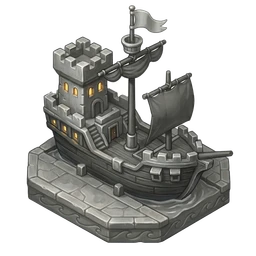
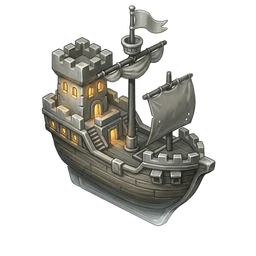
feat: new ship image (ship-new2), always upright — no rotation
Ship pieces always render in their natural orientation regardless
of edge direction. New ship art with transparent background.

diff --git a/packages/app/components/board/PlayerPieces.tsx b/packages/app/components/board/PlayerPieces.tsx
@@ -186,7 +186,6 @@ export function ShipPiece({ x1, y1, x2, y2, color, size = 16 }: ShipPieceProps) 
   const { r, g, b } = hexToRgb(color);
   const mx = (x1 + x2) / 2;
   const my = (y1 + y2) / 2;
-  const angle = (Math.atan2(y2 - y1, x2 - x1) * 180) / Math.PI;
   const filterId = `tint-ship-${Math.round(mx)}-${Math.round(my)}`;
 
   return (
@@ -202,18 +201,16 @@ export function ShipPiece({ x1, y1, x2, y2, color, size = 16 }: ShipPieceProps) 
         </filter>
       </defs>
       {/* Player color base */}
-      <ellipse cx={mx} cy={my} rx={size * 0.55} ry={size * 0.28} fill={color} opacity="0.8"
-        transform={`rotate(${angle}, ${mx}, ${my})`} />
-      {/* Ship image, rotated to match edge */}
+      <ellipse cx={mx} cy={my + size * 0.12} rx={size * 0.5} ry={size * 0.22} fill={color} opacity="0.8" />
+      {/* Ship image — always upright, no rotation */}
       <image
         href="/tiles/ship.webp"
         x={mx - size / 2}
-        y={my - size / 2 - size * 0.1}
+        y={my - size / 2 - size * 0.08}
         width={size}
         height={size}
         preserveAspectRatio="xMidYMid meet"
         filter={`url(#${filterId})`}
-        transform={`rotate(${angle}, ${mx}, ${my})`}
       />
     </g>
   );